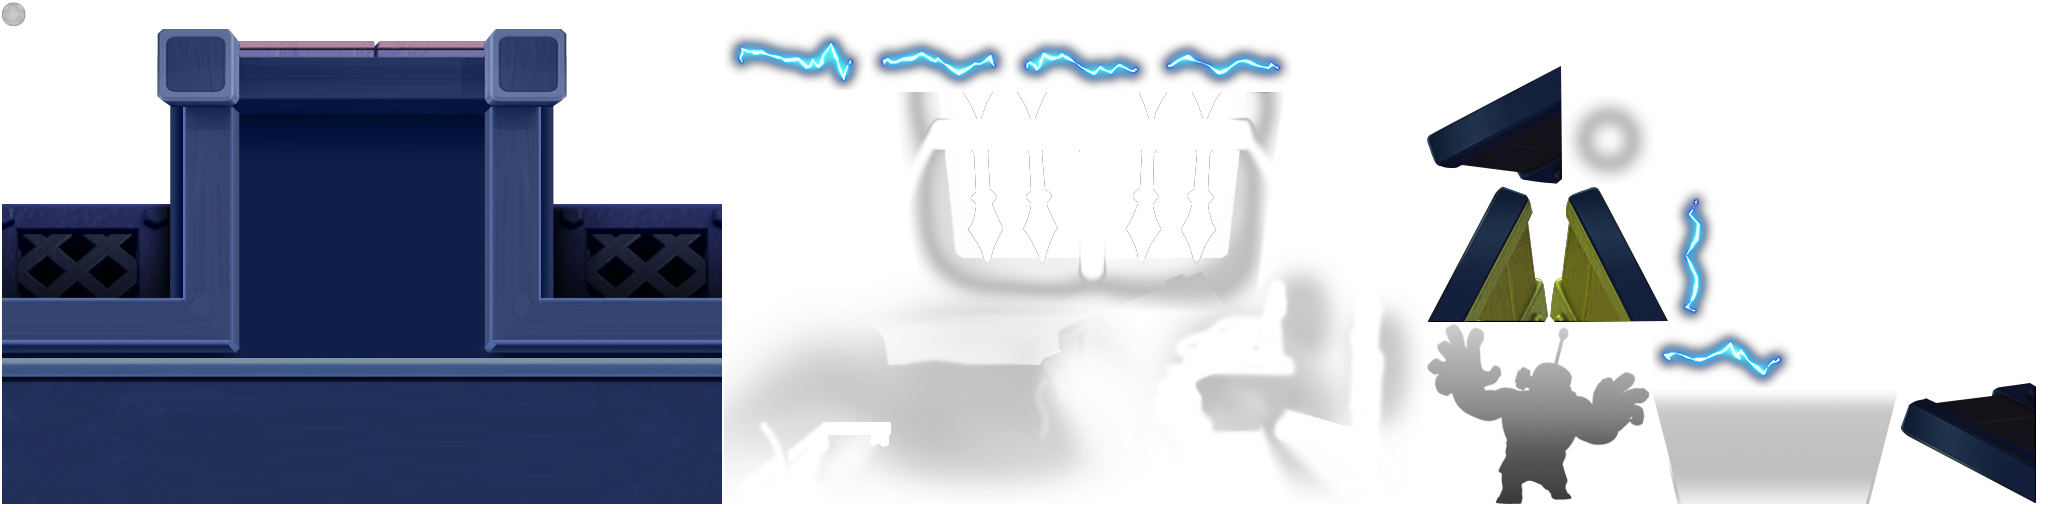
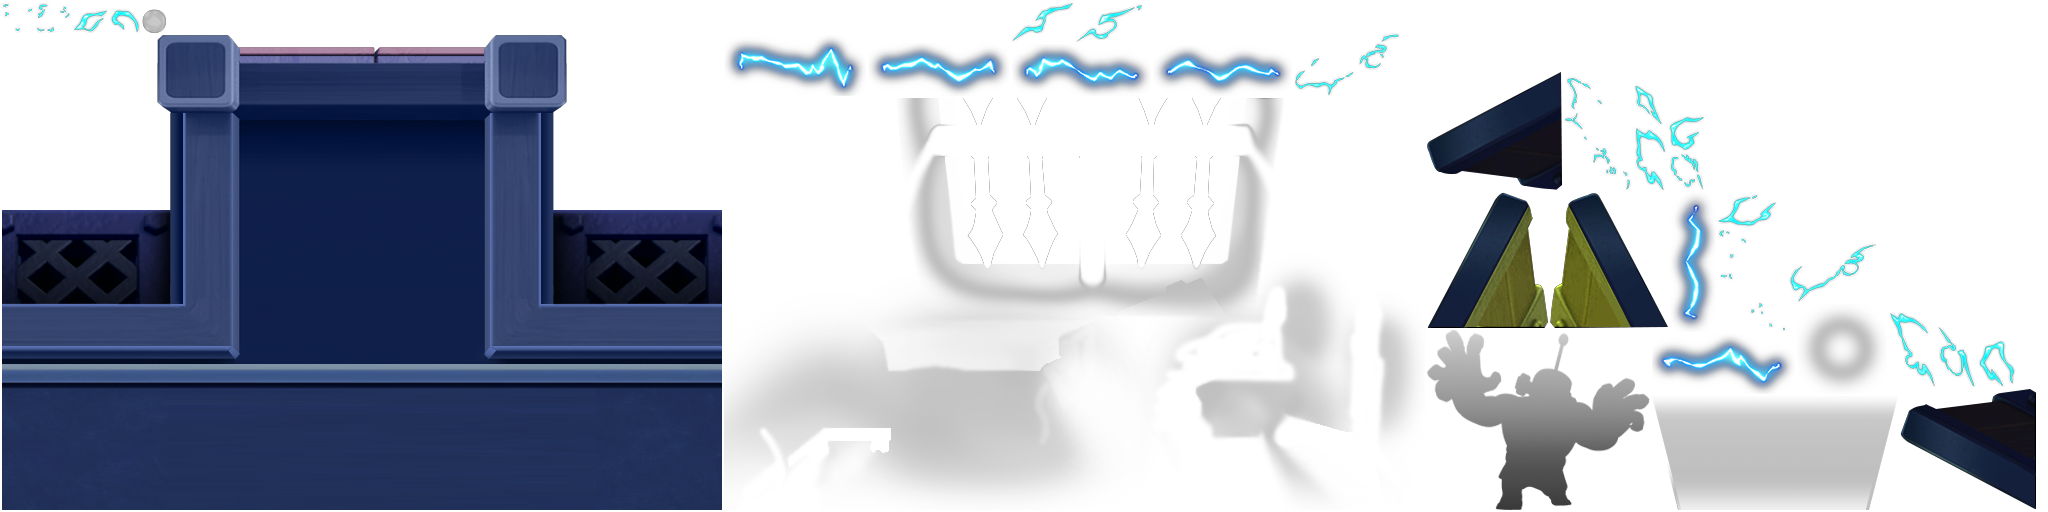
Fixed animation of background

diff --git a/src/custom/_game/game_screen/MainGameScreen.ts b/src/custom/_game/game_screen/MainGameScreen.ts
@@ -6,6 +6,7 @@ import { Spine } from "@esotericsoftware/spine-pixi-v8";
 import { Button } from "../../../app/ui/Button";
 import { SettingsPopup } from "../../../app/popups/SettingsPopup";
 import { GameMode, GameModeLabel } from "../../ui/bet_ui/mines_ui/GameMode";
+import { BackgroundAnimation } from "./BackgroundAnimation";
 
 const safeZoneSize = {
     width: 720,
@@ -21,7 +22,7 @@ const bgSpineOffset = {
 
 export class MainGameScreen extends Container {
     /** Assets bundles required by this screen */
-    // public static assetBundles = ["main"];
+    public static assetBundles = ["default"];
 
     private paused = false;
     private bg: Sprite;
@@ -33,7 +34,6 @@ export class MainGameScreen extends Container {
     // UI Manager
     private uiManager: UIManager;
 
-
     constructor() {
         super();
 
@@ -44,7 +44,7 @@ export class MainGameScreen extends Container {
 
         this.bg = Sprite.from(`bg.jpg`);
         this.bgSpine = Spine.from({ skeleton: "bg.skel", atlas: "bg.atlas" });
-        this.bgSpine.state.setAnimation(0, "idle", true);
+        this.bgSpine.state.setAnimation(0, BackgroundAnimation.LEVEL_1, true);
         // console.log(this.bgSpine.skeleton.data.animations);
 
         const button = new Button({
@@ -61,8 +61,38 @@ export class MainGameScreen extends Container {
     }
 
     private onGameModeChange(gameMode: GameMode) {
-        console.log(GameModeLabel[gameMode]);
+        switch (gameMode) {
+            case GameMode.EASY:
+                this.bgSpine.state.setEmptyAnimation(1, 0.5);
+                this.bgSpine.state.setEmptyAnimation(2, 0.5);
+                this.bgSpine.state.setEmptyAnimation(3, 0.5);
+                this.bgSpine.state.setAnimation(0, BackgroundAnimation.LEVEL_1, true);
+                break;
+
+            case GameMode.MEDIUM:
+                this.bgSpine.state.setEmptyAnimation(2, 0.5);
+                this.bgSpine.state.setEmptyAnimation(3, 0.5);
+                this.bgSpine.state.setAnimation(1, BackgroundAnimation.LEVEL_2, true);
+                break;
+
+            case GameMode.HARD:
+                // this.bgSpine.state.clearTrack(3);
+                this.bgSpine.state.setEmptyAnimation(3, 0.5);
+                this.bgSpine.state.setAnimation(1, BackgroundAnimation.LEVEL_2, true);
+                this.bgSpine.state.setAnimation(2, BackgroundAnimation.LEVEL_3, true);
+                break;
+
+            case GameMode.EXTREME:
+                this.bgSpine.state.setAnimation(1, BackgroundAnimation.LEVEL_2, true);
+                this.bgSpine.state.setAnimation(2, BackgroundAnimation.LEVEL_3, true);
+                this.bgSpine.state.setAnimation(3, BackgroundAnimation.LEVEL_4, true);
+                break;
+
+            default:
+                break;
+        }
     }
+
 
     private showPopup() {
         // console.log("show popup");
@@ -104,7 +134,7 @@ export class MainGameScreen extends Container {
         this.boardContainer.position.set(centerX + 50, boardOffsetY - safeZoneSize.height);
 
         const uiManagerOffsetX = (this.boardContainer.width - this.uiManager.width) / 2;
-        this.uiManager.position.set(centerX + uiManagerOffsetX, this.boardContainer.y + this.boardContainer.height + 150);
+        this.uiManager.position.set(centerX + uiManagerOffsetX, this.boardContainer.y + this.boardContainer.height + 260);
 
         this.bg.position.set(centerX, -safeZoneSize.height);
         this.bgSpine.position.set(this.bg.position.x + bgSpineOffset.x, this.bg.position.y + bgSpineOffset.y);
